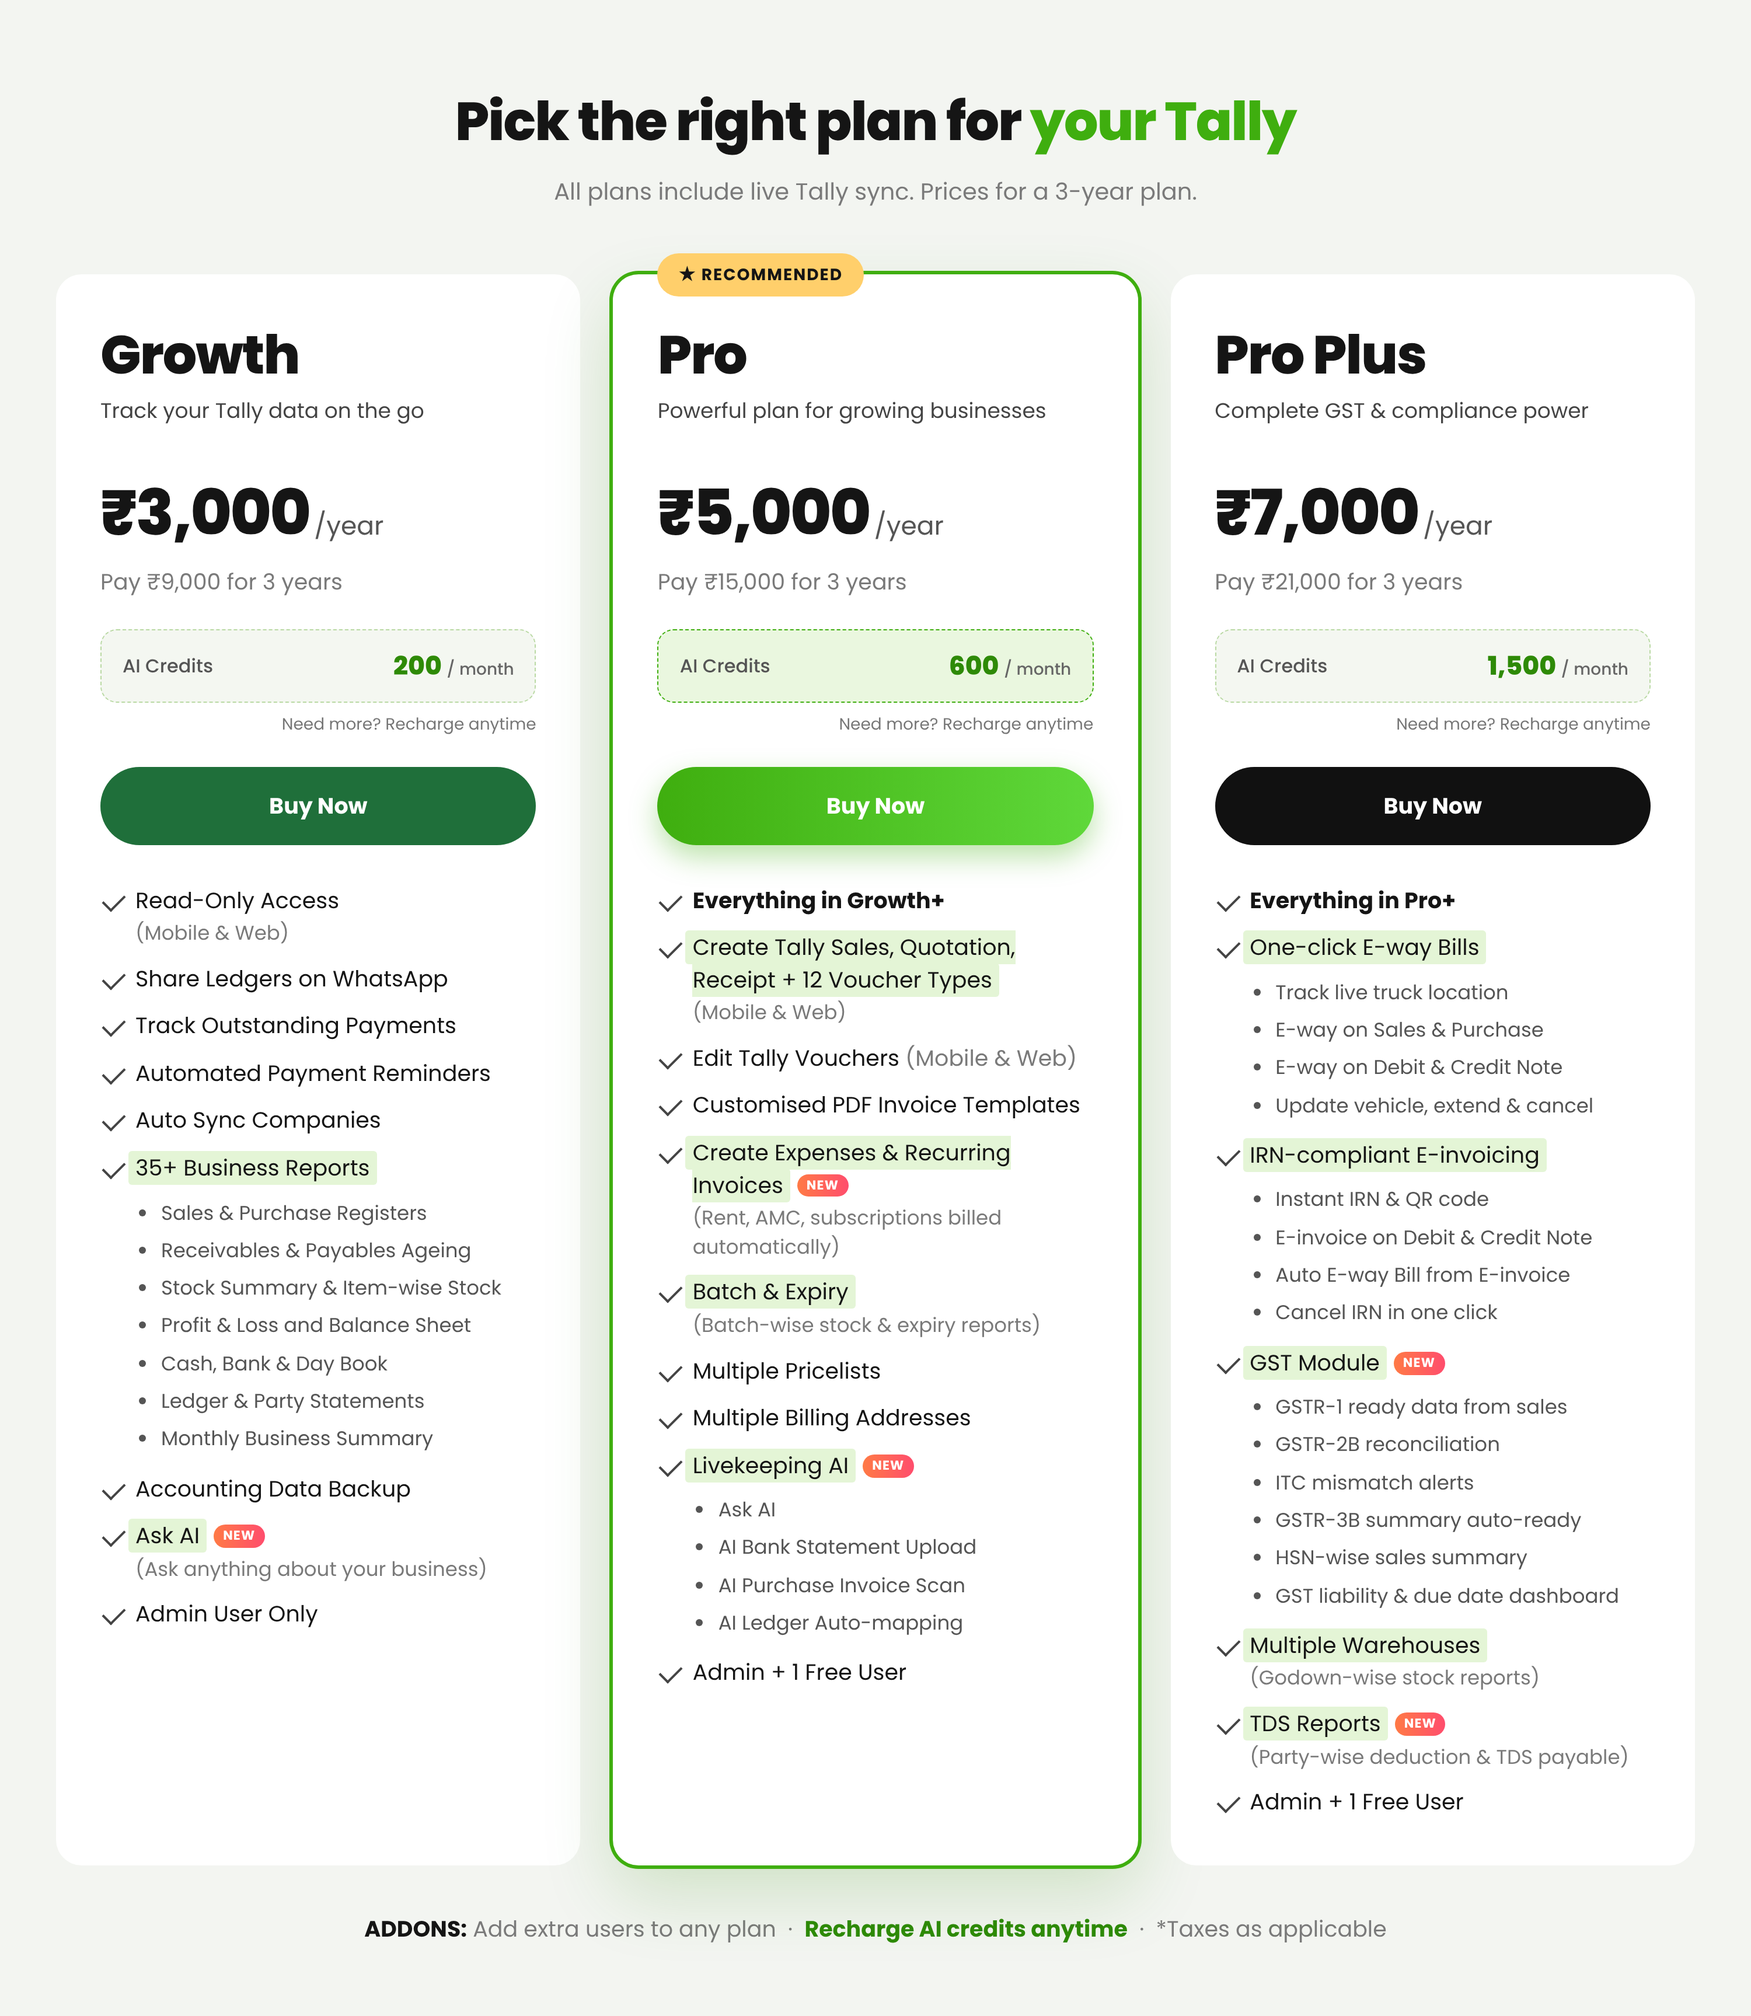
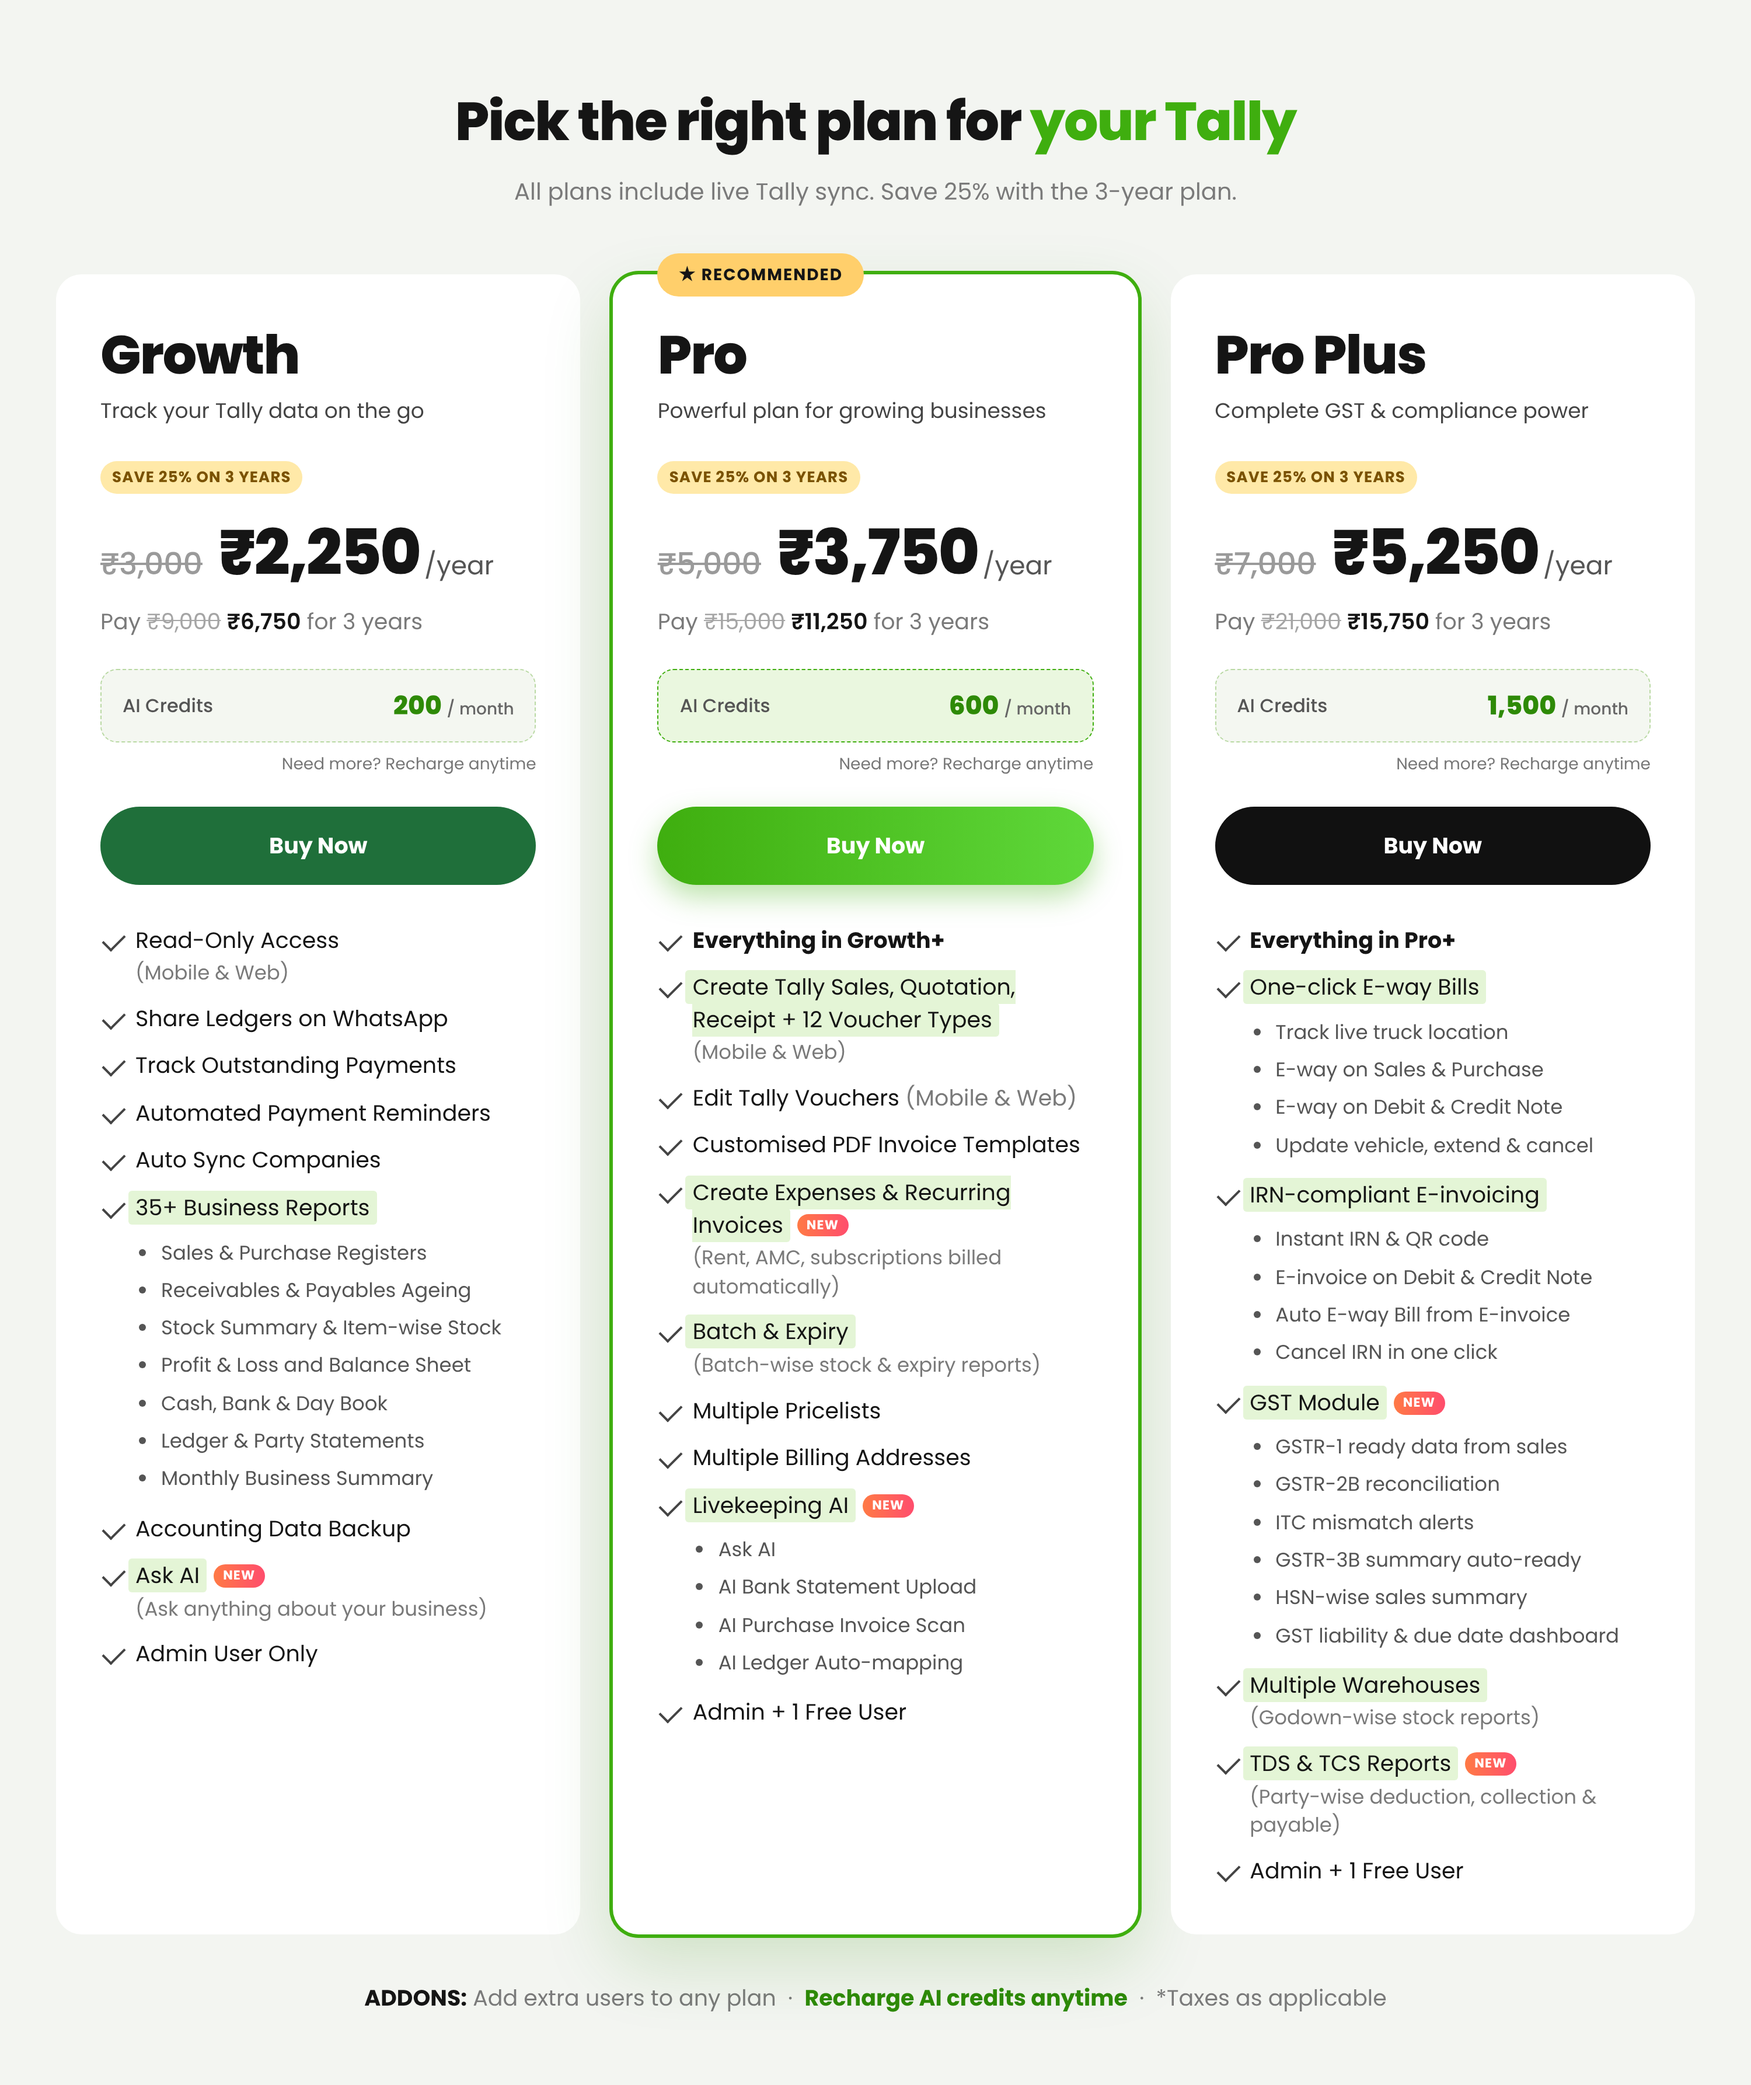
Pricing cards: 25% 3-year discount pricing, TDS & TCS reports in Pro Plus
Claude-Session: https://claude.ai/code/session_01TUFe6273V25gsCzznixesV

diff --git a/livekeeping-pricing/cards.html b/livekeeping-pricing/cards.html
@@ -29,10 +29,14 @@
   }
   .name { font-size: 46px; font-weight: 800; letter-spacing: -1px; line-height: 1.1; }
   .tag { font-size: 18px; color: #444; margin-top: 8px; }
-  .price { margin-top: 34px; display: flex; align-items: baseline; gap: 4px; }
+  .price { margin-top: 10px; display: flex; align-items: baseline; gap: 4px; }
   .price b { font-size: 54px; font-weight: 800; letter-spacing: -1.5px; }
   .price span { font-size: 22px; color: #555; }
-  .pay { font-size: 19px; color: var(--muted); margin-top: 4px; }
+  .price s { font-size: 26px; color: #9a9a9a; font-weight: 500; margin-right: 10px; }
+  .pay { font-size: 19px; color: var(--muted); margin-top: 4px; white-space: nowrap; }
+  .pay s { color: #a5a5a5; }
+  .pay b { color: var(--text); font-weight: 600; }
+  .save { display: inline-block; margin-top: 30px; background: #ffe9a8; color: #7a5200; font-size: 13px; font-weight: 700; letter-spacing: .6px; padding: 4px 10px; border-radius: 20px; }
 
   .credits {
     margin-top: 26px; display: flex; align-items: center; justify-content: space-between;
@@ -76,15 +80,16 @@
 <body>
 <div class="page">
   <h1>Pick the right plan for <span>your Tally</span></h1>
-  <p class="sub">All plans include live Tally sync. Prices for a 3-year plan.</p>
+  <p class="sub">All plans include live Tally sync. Save 25% with the 3-year plan.</p>
 
   <div class="grid">
     <!-- GROWTH -->
     <div class="card growth">
       <div class="name">Growth</div>
       <div class="tag">Track your Tally data on the go</div>
-      <div class="price"><b>₹3,000</b><span>/year</span></div>
-      <div class="pay">Pay ₹9,000 for 3 years</div>
+      <span class="save">SAVE 25% ON 3 YEARS</span>
+      <div class="price"><s>₹3,000</s><b>₹2,250</b><span>/year</span></div>
+      <div class="pay">Pay <s>₹9,000</s> <b>₹6,750</b> for 3 years</div>
       <div class="credits"><span class="lbl">AI Credits</span><span class="num">200 <small>/ month</small></span></div>
       <div class="credits-note">Need more? Recharge anytime</div>
       <div class="btn">Buy Now</div>
@@ -115,8 +120,9 @@
       <span class="badge">★ RECOMMENDED</span>
       <div class="name">Pro</div>
       <div class="tag">Powerful plan for growing businesses</div>
-      <div class="price"><b>₹5,000</b><span>/year</span></div>
-      <div class="pay">Pay ₹15,000 for 3 years</div>
+      <span class="save">SAVE 25% ON 3 YEARS</span>
+      <div class="price"><s>₹5,000</s><b>₹3,750</b><span>/year</span></div>
+      <div class="pay">Pay <s>₹15,000</s> <b>₹11,250</b> for 3 years</div>
       <div class="credits"><span class="lbl">AI Credits</span><span class="num">600 <small>/ month</small></span></div>
       <div class="credits-note">Need more? Recharge anytime</div>
       <div class="btn">Buy Now</div>
@@ -144,8 +150,9 @@
     <div class="card plus">
       <div class="name">Pro Plus</div>
       <div class="tag">Complete GST &amp; compliance power</div>
-      <div class="price"><b>₹7,000</b><span>/year</span></div>
-      <div class="pay">Pay ₹21,000 for 3 years</div>
+      <span class="save">SAVE 25% ON 3 YEARS</span>
+      <div class="price"><s>₹7,000</s><b>₹5,250</b><span>/year</span></div>
+      <div class="pay">Pay <s>₹21,000</s> <b>₹15,750</b> for 3 years</div>
       <div class="credits"><span class="lbl">AI Credits</span><span class="num">1,500 <small>/ month</small></span></div>
       <div class="credits-note">Need more? Recharge anytime</div>
       <div class="btn">Buy Now</div>
@@ -175,7 +182,7 @@
             <li>GST liability &amp; due date dashboard</li>
           </ul></div></li>
         <li><div><span class="hl">Multiple Warehouses</span><span class="note">(Godown-wise stock reports)</span></div></li>
-        <li><div><span class="hl">TDS Reports</span><span class="new">NEW</span><span class="note">(Party-wise deduction &amp; TDS payable)</span></div></li>
+        <li><div><span class="hl">TDS &amp; TCS Reports</span><span class="new">NEW</span><span class="note">(Party-wise deduction, collection &amp; payable)</span></div></li>
         <li><div>Admin + 1 Free User</div></li>
       </ul>
     </div>
